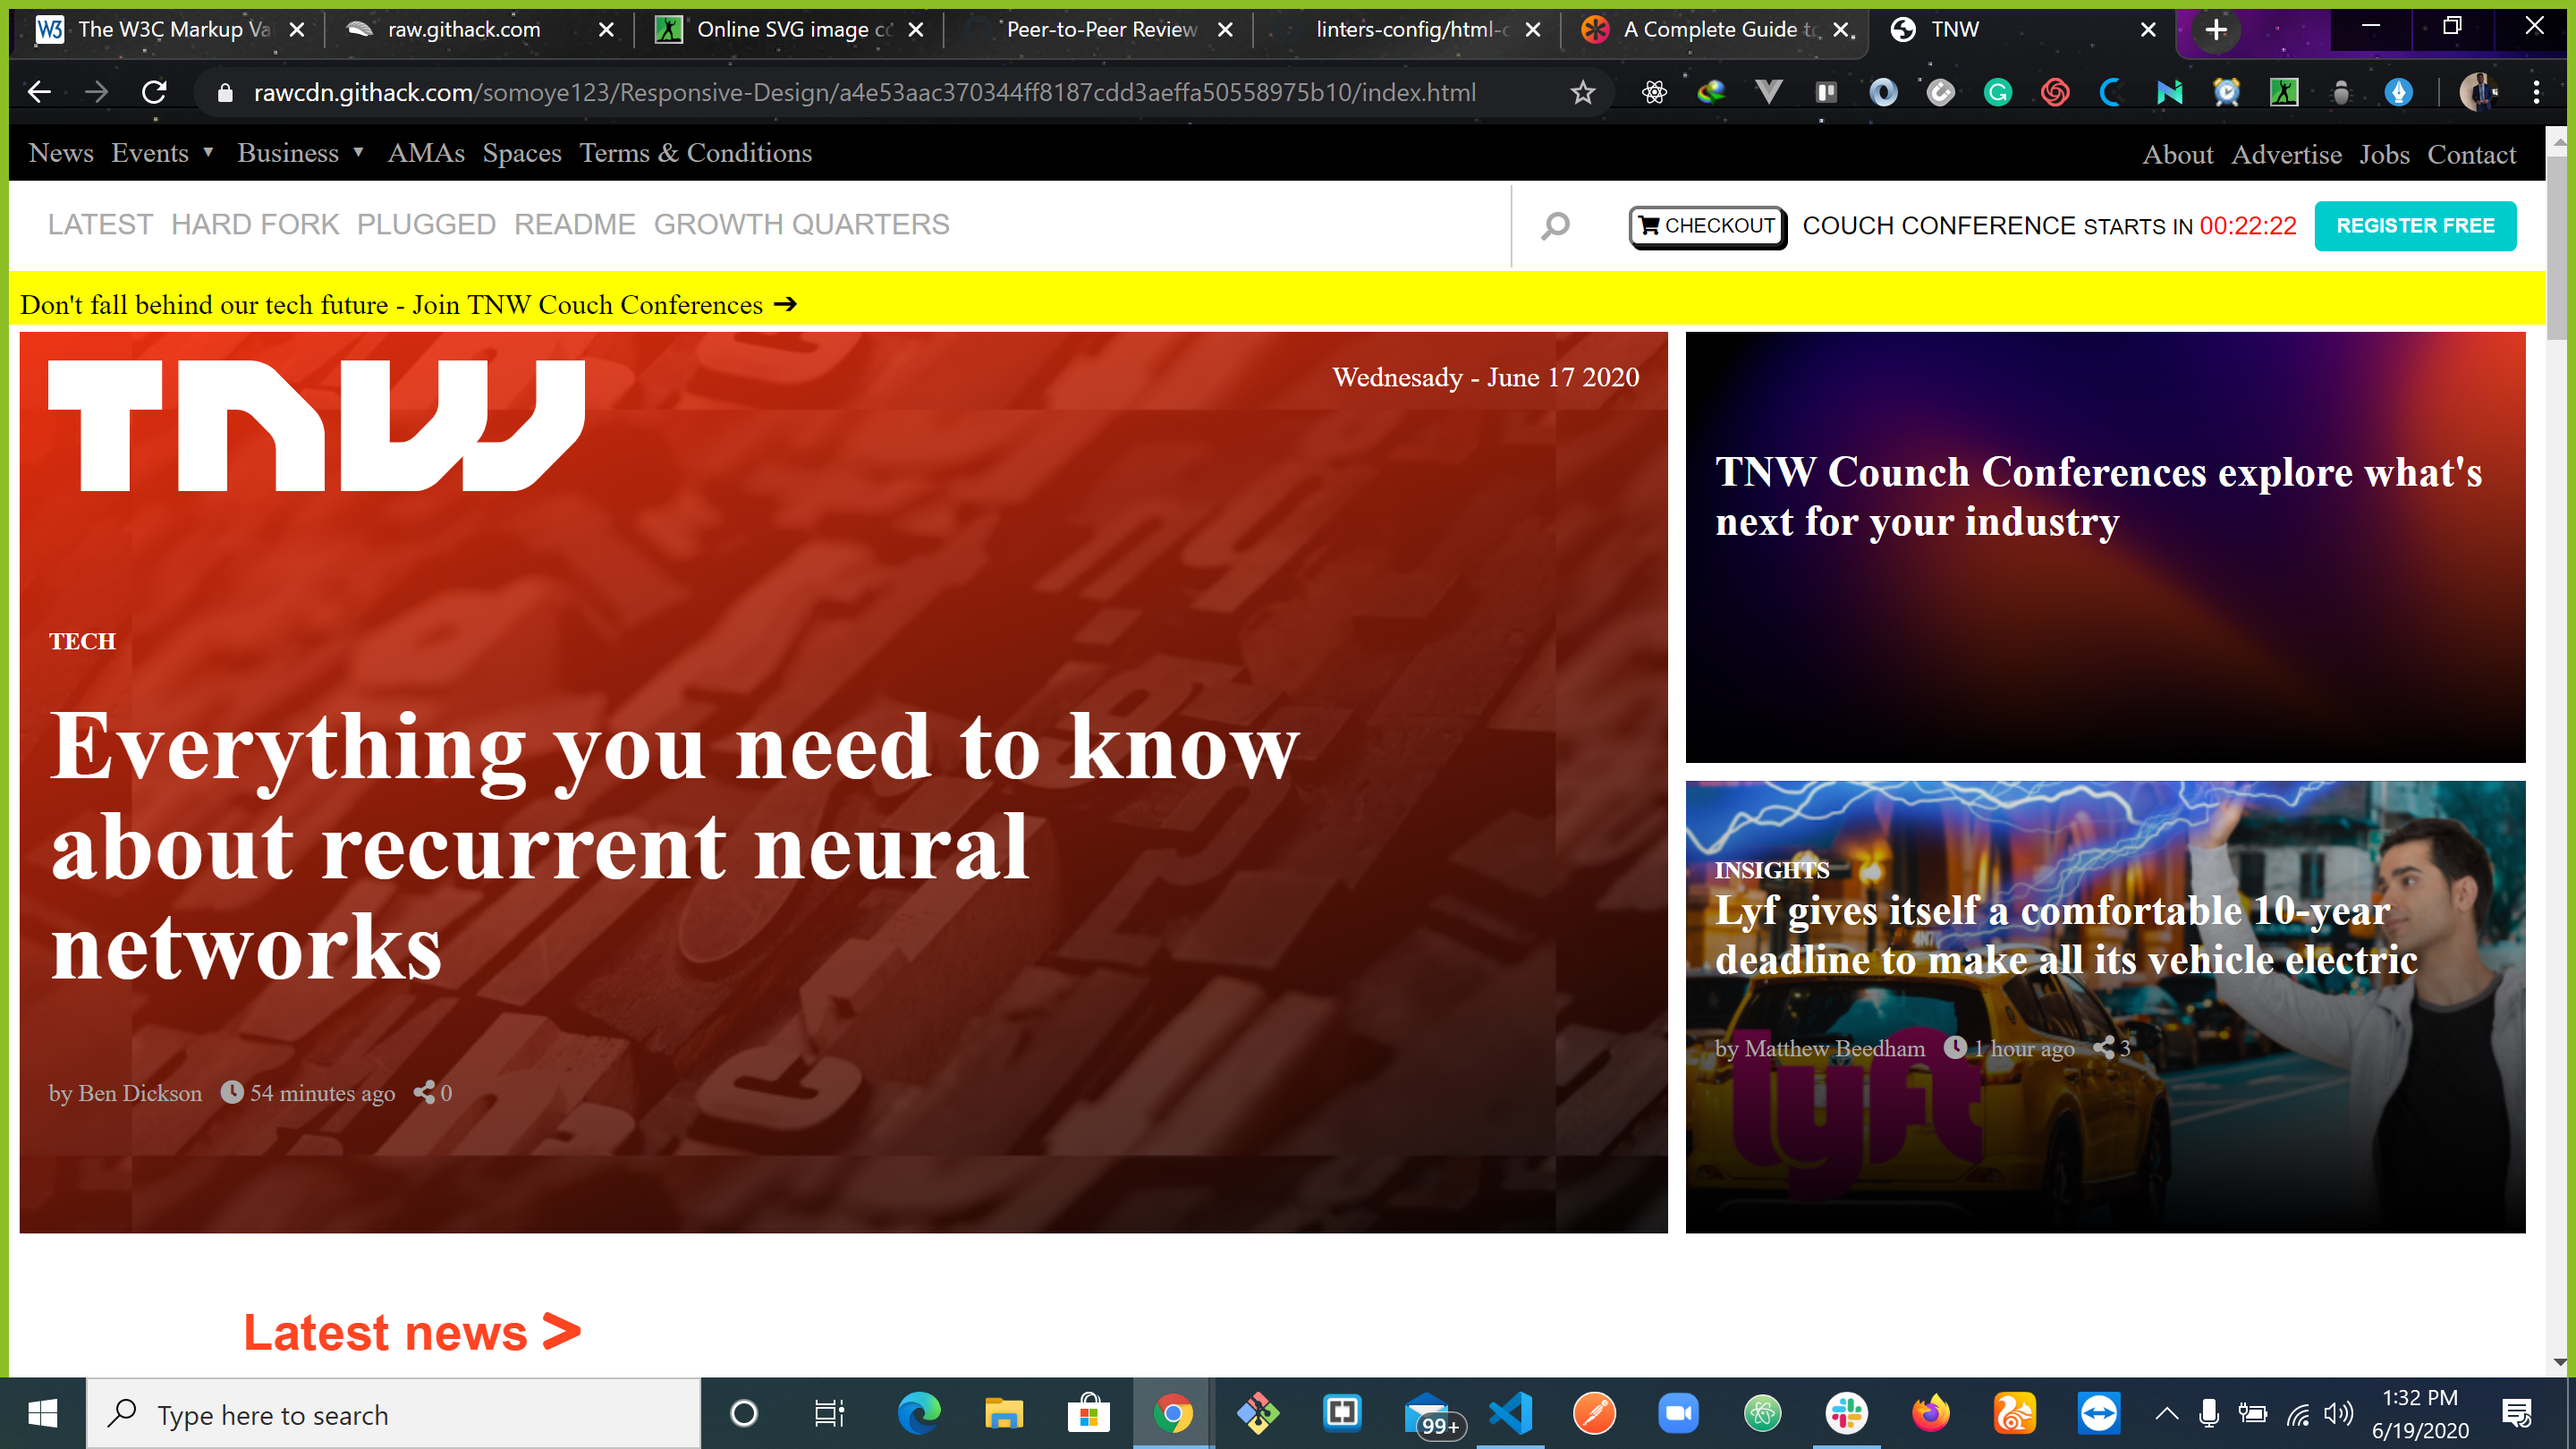
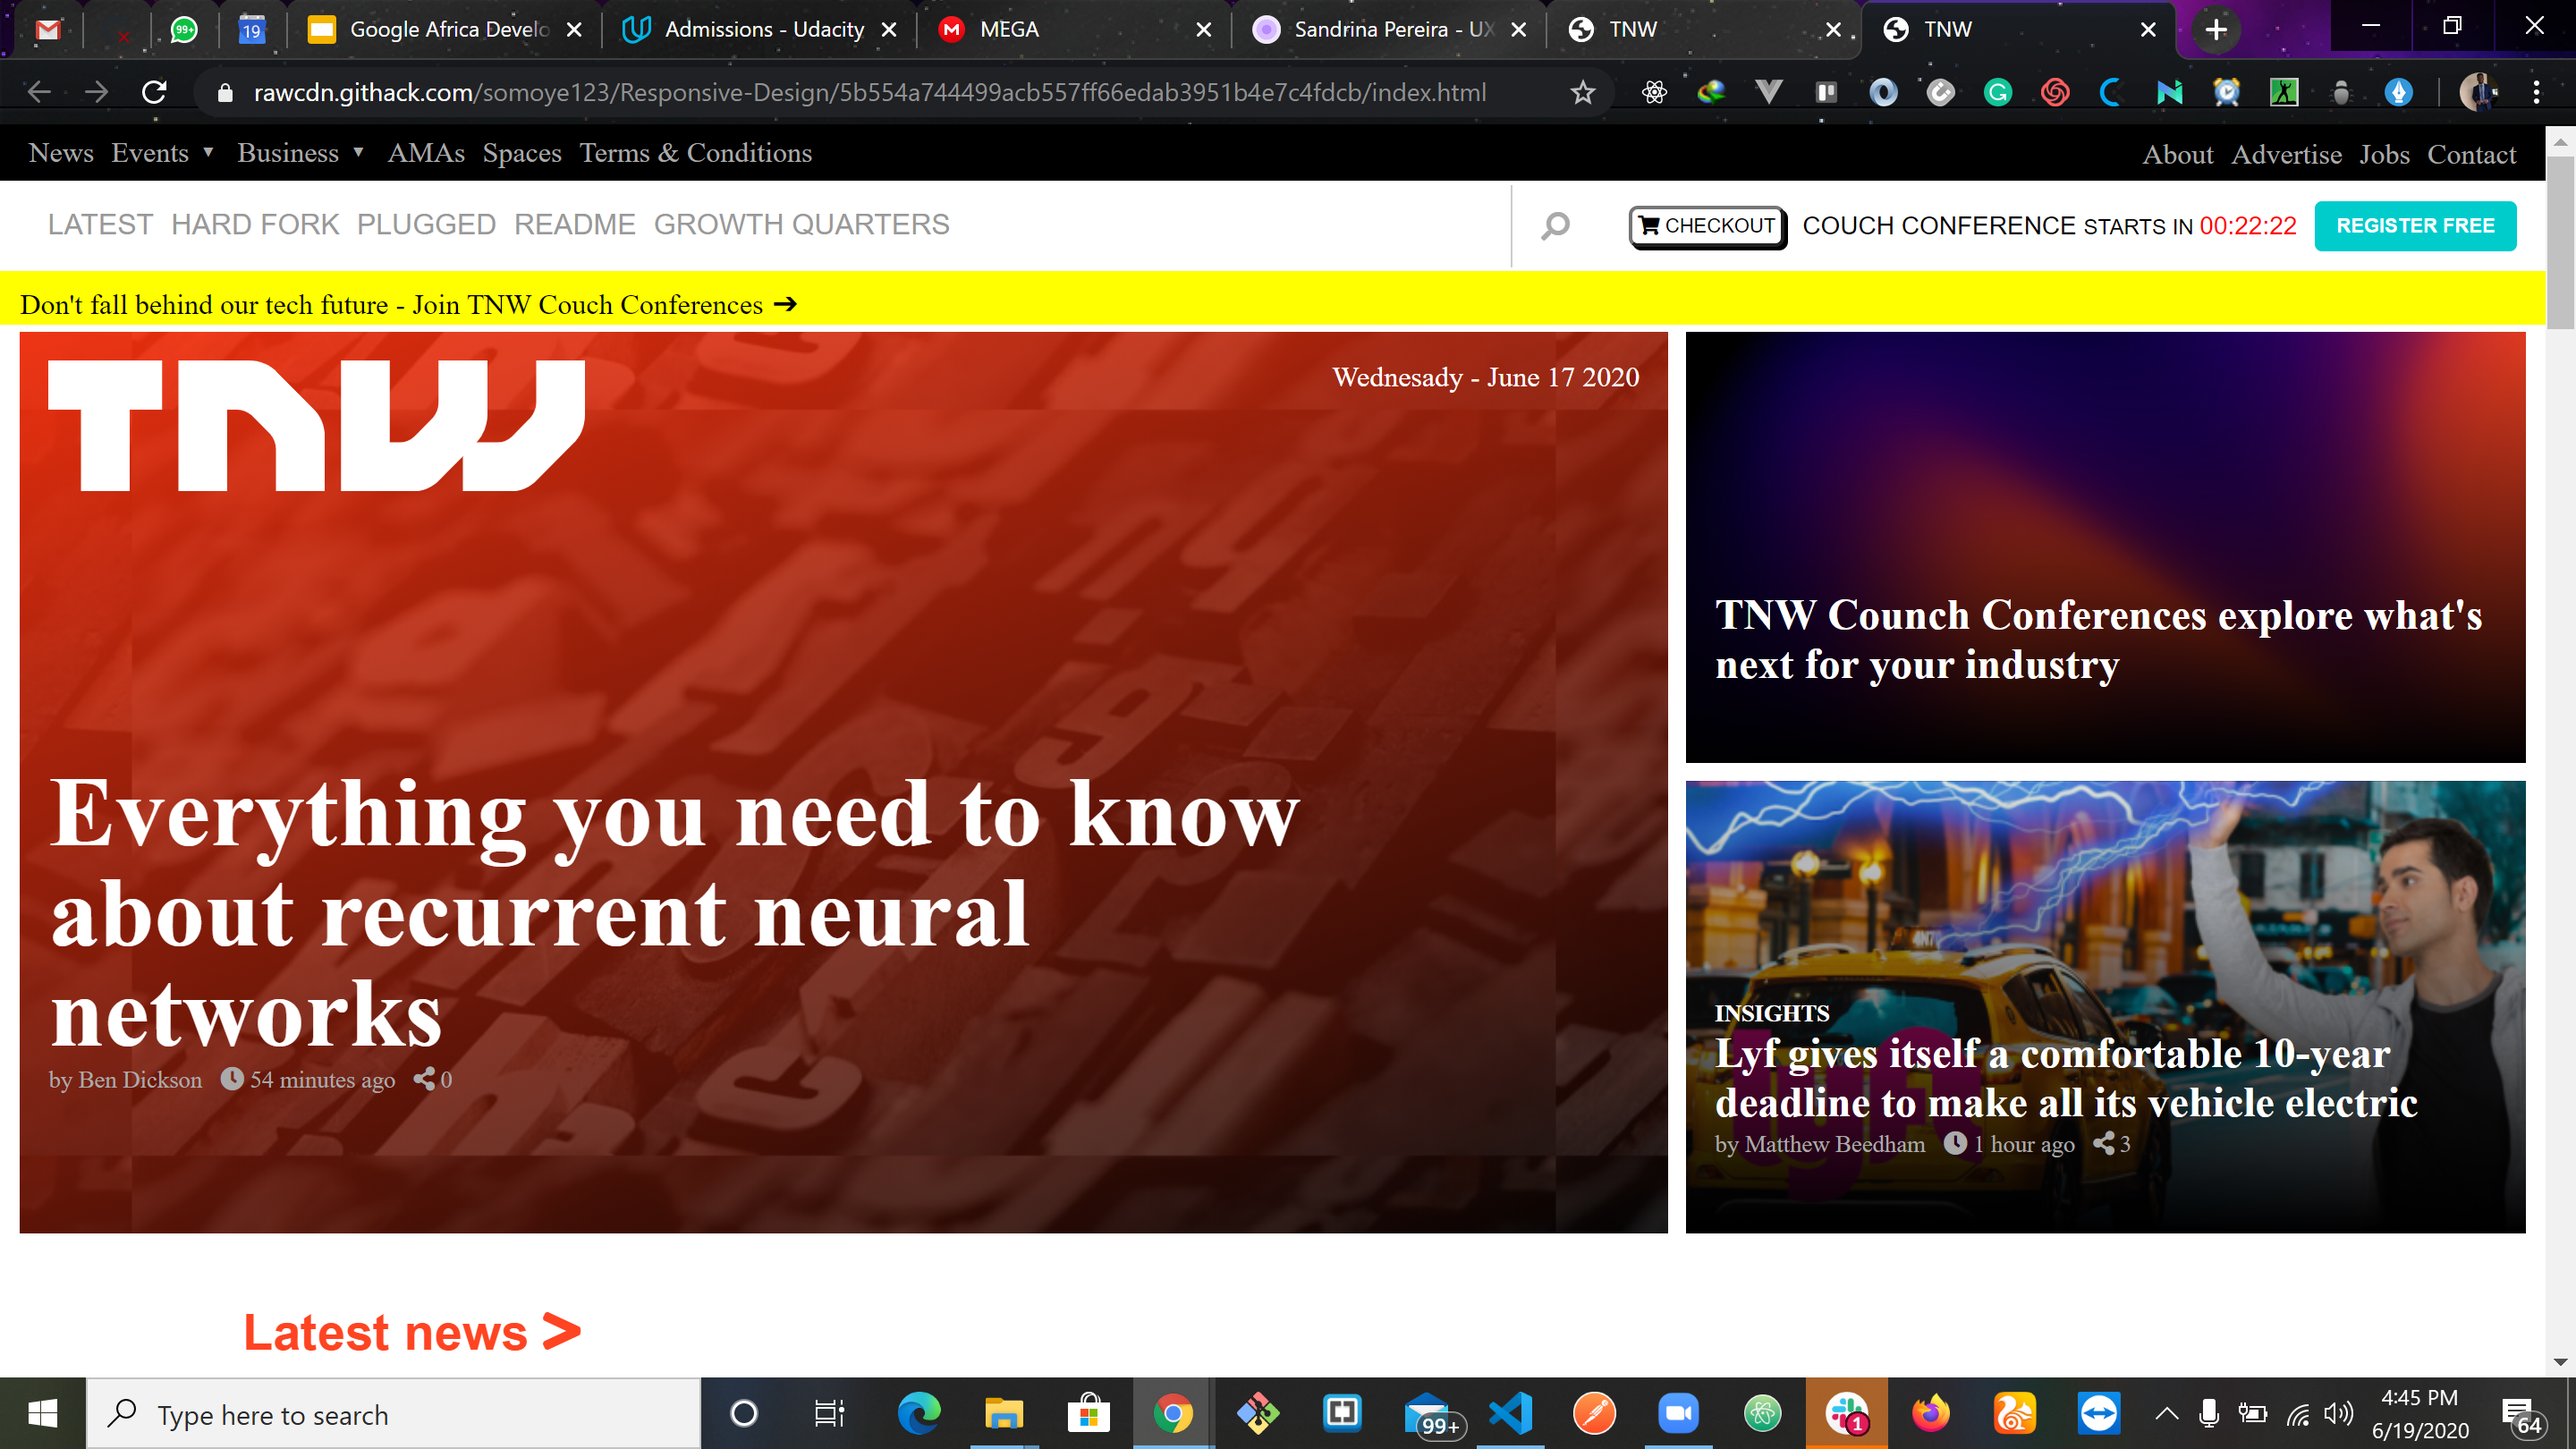
update Readme.md file to reflect current live link

diff --git a/README.md b/README.md
@@ -12,7 +12,8 @@ Building THE NEXT WEB with responsive design
 
 ## Live Demo
 
-[Live Demo Link](https://rawcdn.githack.com/somoye123/Responsive-Design/5b554a744499acb557ff66edab3951b4e7c4fdcb/index.html)
+[Live Demo Link](https://rawcdn.githack.com/somoye123/Responsive-Design/5b554a744499acb557ff66edab3951b4e7c4fdcb/index.html
+)
 
 ## Authors
 
